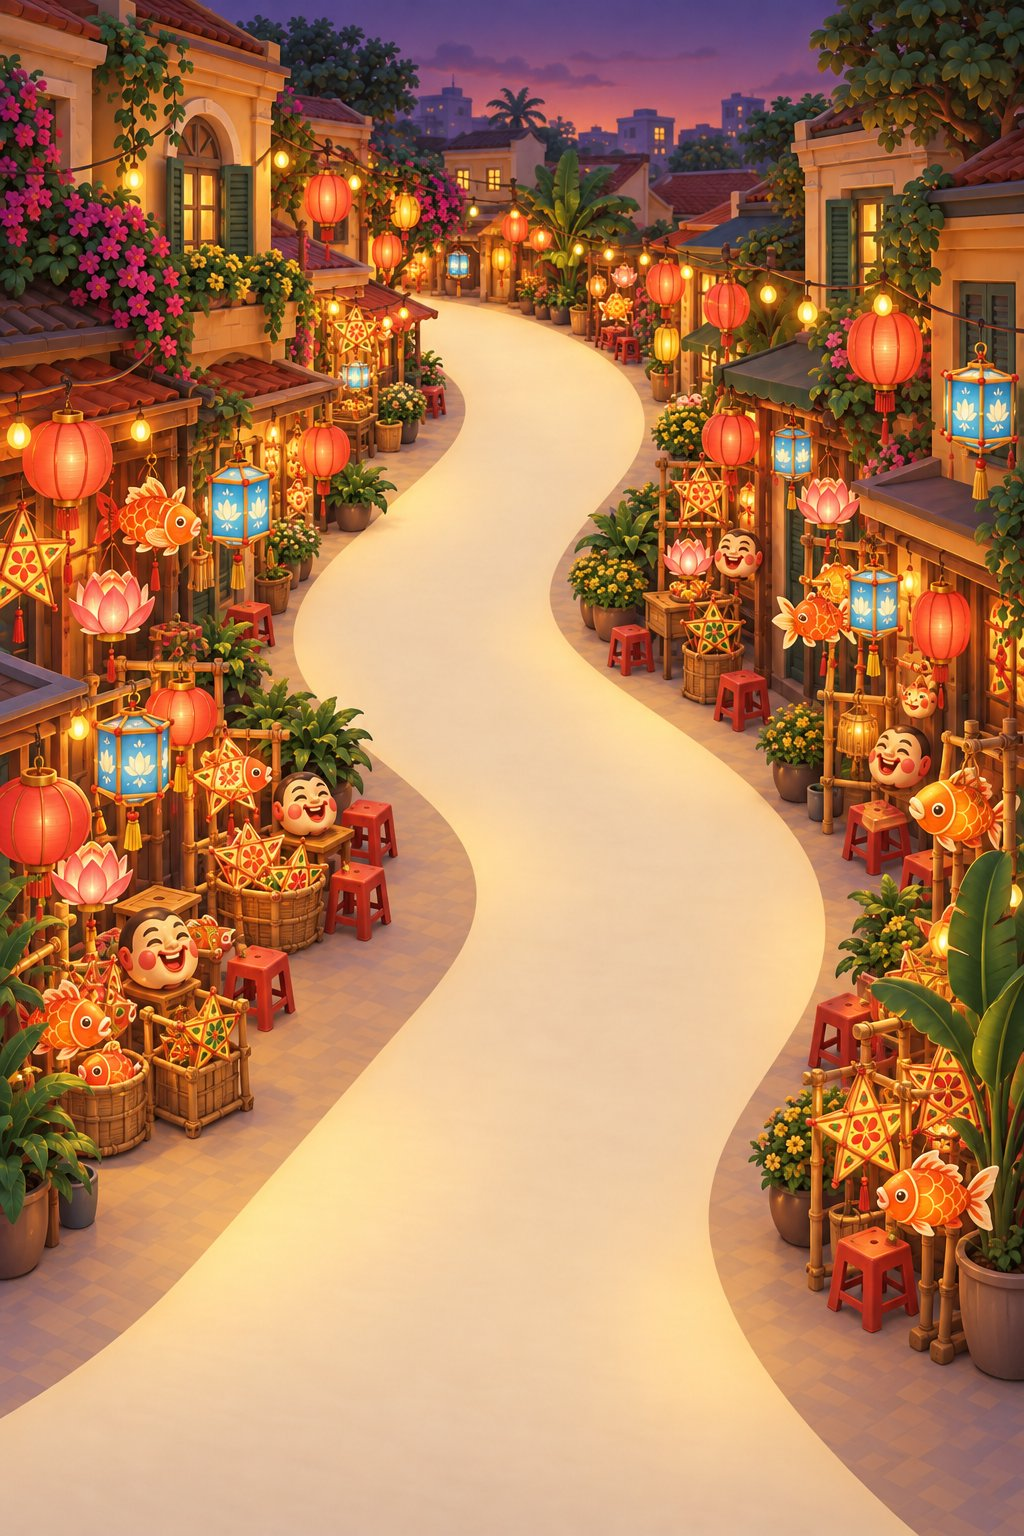
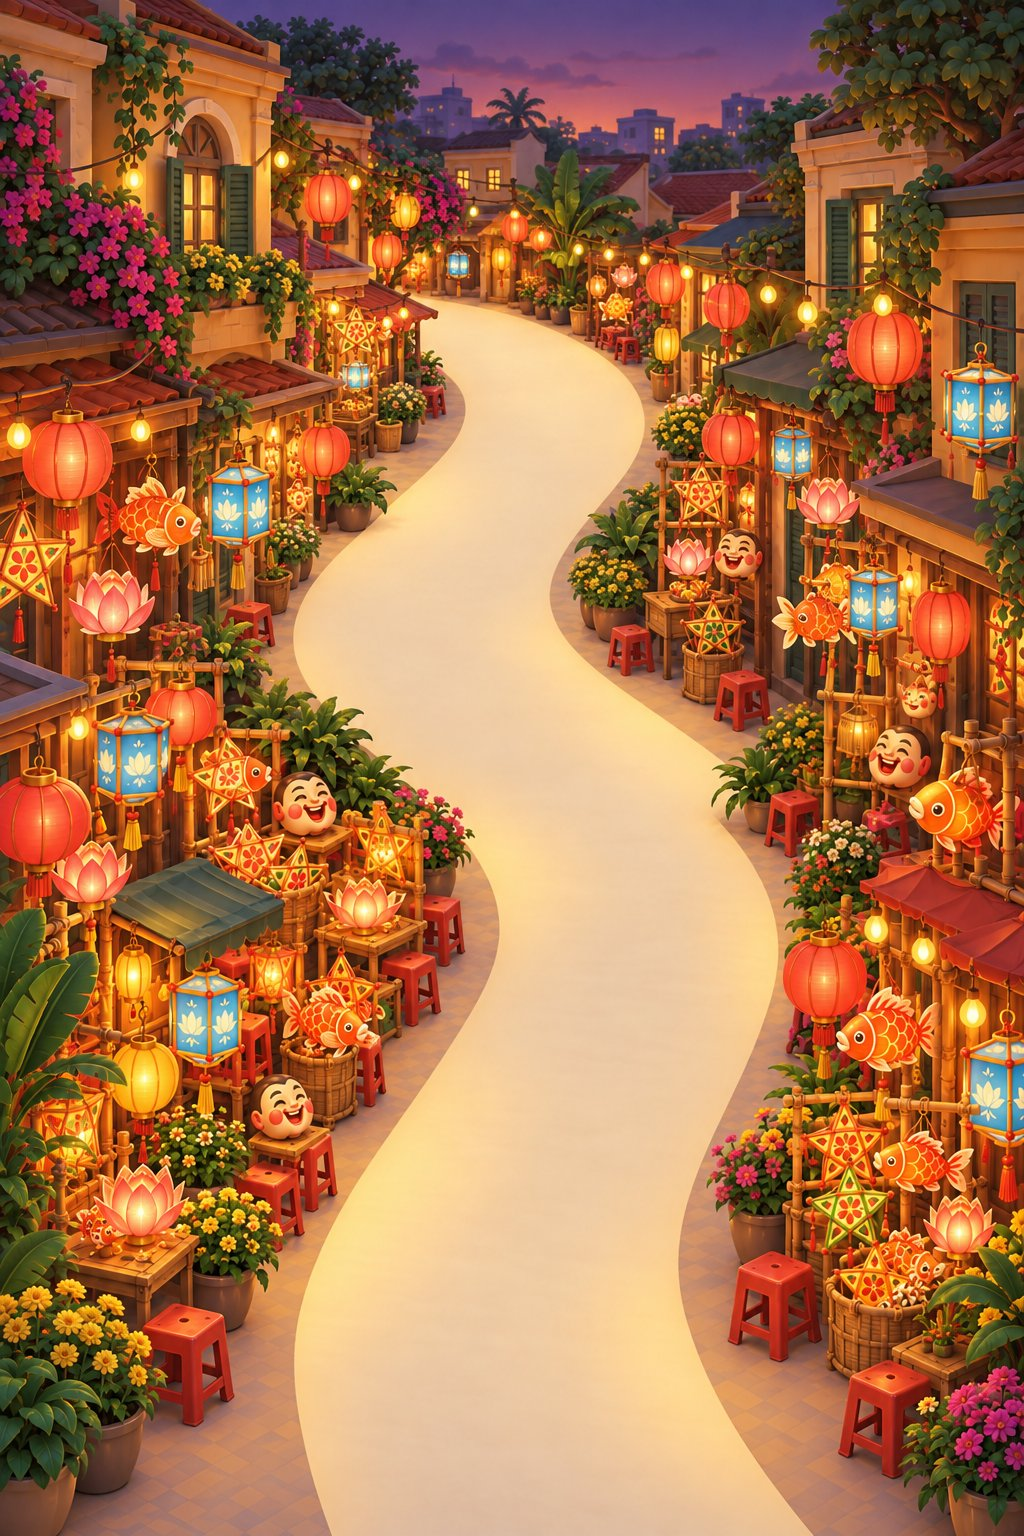
fix(art): fill the bare lower part of the district map backgrounds
The lower third of each district map showed as an empty cream path once the
sides were cropped. The art there now has stalls, stools and plants along a
narrower path. The README gains a map scroll clip and refreshed map shots.

Changed region(s): [[0.0, 0.4688, 0.5, 1.0], [0.6562, 0.4688, 1.0, 1.0]]

diff --git a/README.md b/README.md
@@ -25,9 +25,11 @@
 ## Gameplay
 
 <p align="center">
-  <img src="docs/media/gifs/play-level.gif" alt="Tapping items on the diorama; they fly into the tray and matching triples clear" width="300">
-  &nbsp;&nbsp;
-  <img src="docs/media/gifs/win.gif" alt="The win sheet: three stars pop in while confetti falls" width="300">
+  <img src="docs/media/gifs/play-level.gif" alt="Tapping items on the diorama; they fly into the tray and matching triples clear" width="260">
+  &nbsp;
+  <img src="docs/media/gifs/win.gif" alt="The win sheet: three stars pop in while confetti falls" width="260">
+  &nbsp;
+  <img src="docs/media/gifs/map-scroll.gif" alt="Scrolling the map through the six districts" width="260">
 </p>
 
 - Tap an item that nothing else covers. It lifts off the diorama, flies into the **7-slot tray** and lines up next to its kind.

diff --git a/README.vi.md b/README.vi.md
@@ -25,9 +25,11 @@
 ## Cách chơi
 
 <p align="center">
-  <img src="docs/media/gifs/play-level.gif" alt="Chạm món trên sa bàn, món bay vào giỏ và bộ ba được xoá" width="300">
-  &nbsp;&nbsp;
-  <img src="docs/media/gifs/win.gif" alt="Bảng thắng: ba ngôi sao bật lên, confetti rơi" width="300">
+  <img src="docs/media/gifs/play-level.gif" alt="Chạm món trên sa bàn, món bay vào giỏ và bộ ba được xoá" width="260">
+  &nbsp;
+  <img src="docs/media/gifs/win.gif" alt="Bảng thắng: ba ngôi sao bật lên, confetti rơi" width="260">
+  &nbsp;
+  <img src="docs/media/gifs/map-scroll.gif" alt="Cuộn bản đồ qua sáu khu phố" width="260">
 </p>
 
 - Chạm vào một món **không bị món nào che**. Món nhấc lên, bay vào **giỏ 7 ô** và xếp cạnh món cùng loại.
